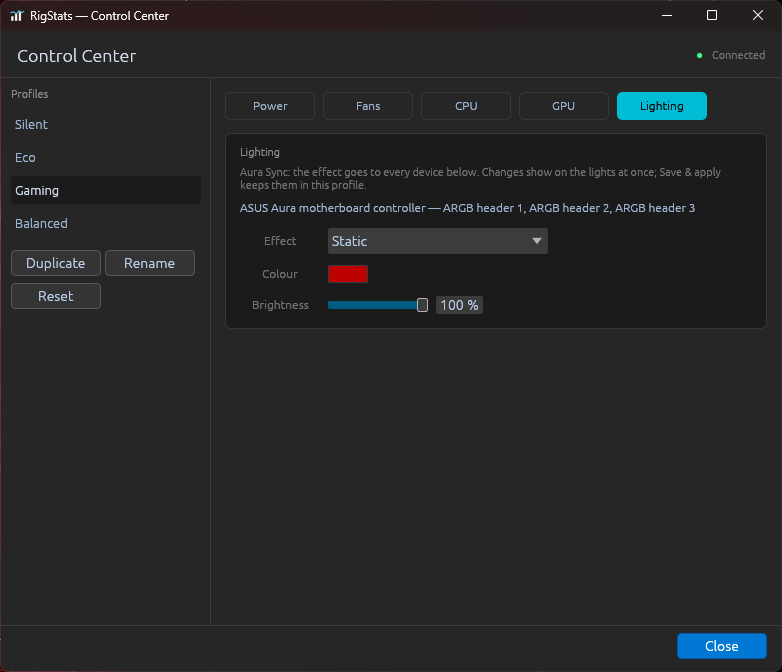
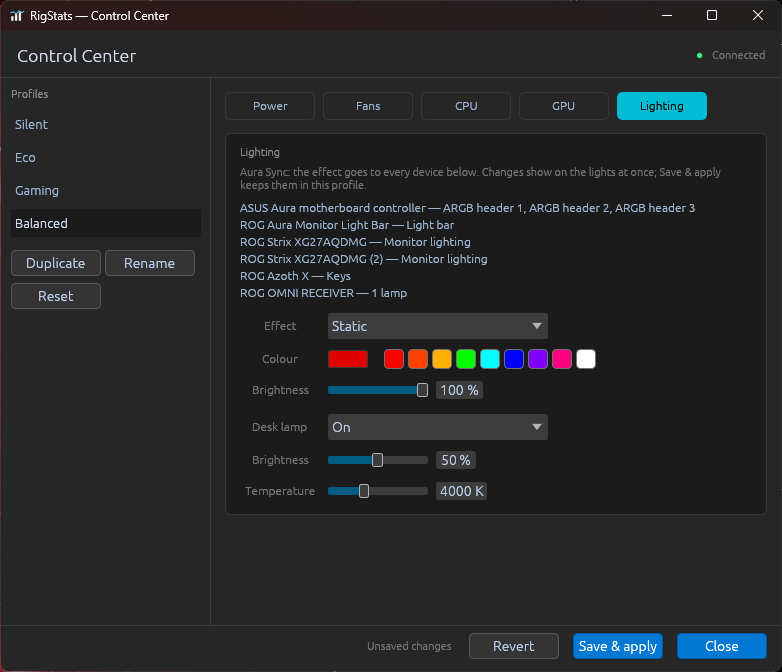
docs(website): show every lighting device, quick-pick colours and the desk lamp
Refs #212

diff --git a/website/index.html b/website/index.html
@@ -305,7 +305,7 @@
             <img src="images/control-center-gpu.png" alt="Control Center, GPU tab: the AMD Radeon RX 9070 XT power limit slider at -15 %, an Original button, and the limit currently in force" class="hero-img">
           </div>
           <div class="screen-wrap screen-wrap--wide">
-            <img src="images/control-center-lighting.png" alt="Control Center, Lighting tab: Aura Sync to the ASUS Aura motherboard controller and its three ARGB headers, a static red effect, colour and brightness" class="hero-img">
+            <img src="images/control-center-lighting.png" alt="Control Center, Lighting tab: Aura Sync to the ASUS Aura motherboard controller, the ROG Aura Monitor Light Bar, two ROG Strix XG27AQDMG monitors, the ROG Azoth X and the ROG Omni receiver; a static red effect with quick-pick colour swatches and brightness, and the light bar's desk lamp on at 50 % and 4000 K" class="hero-img">
           </div>
           <div class="screen-wrap">
             <img src="images/tray-menue-profile.png" alt="Tray menu with the Profile submenu open, listing Silent, Gaming, Eco and Balanced with a check on the active profile" class="hero-img">
